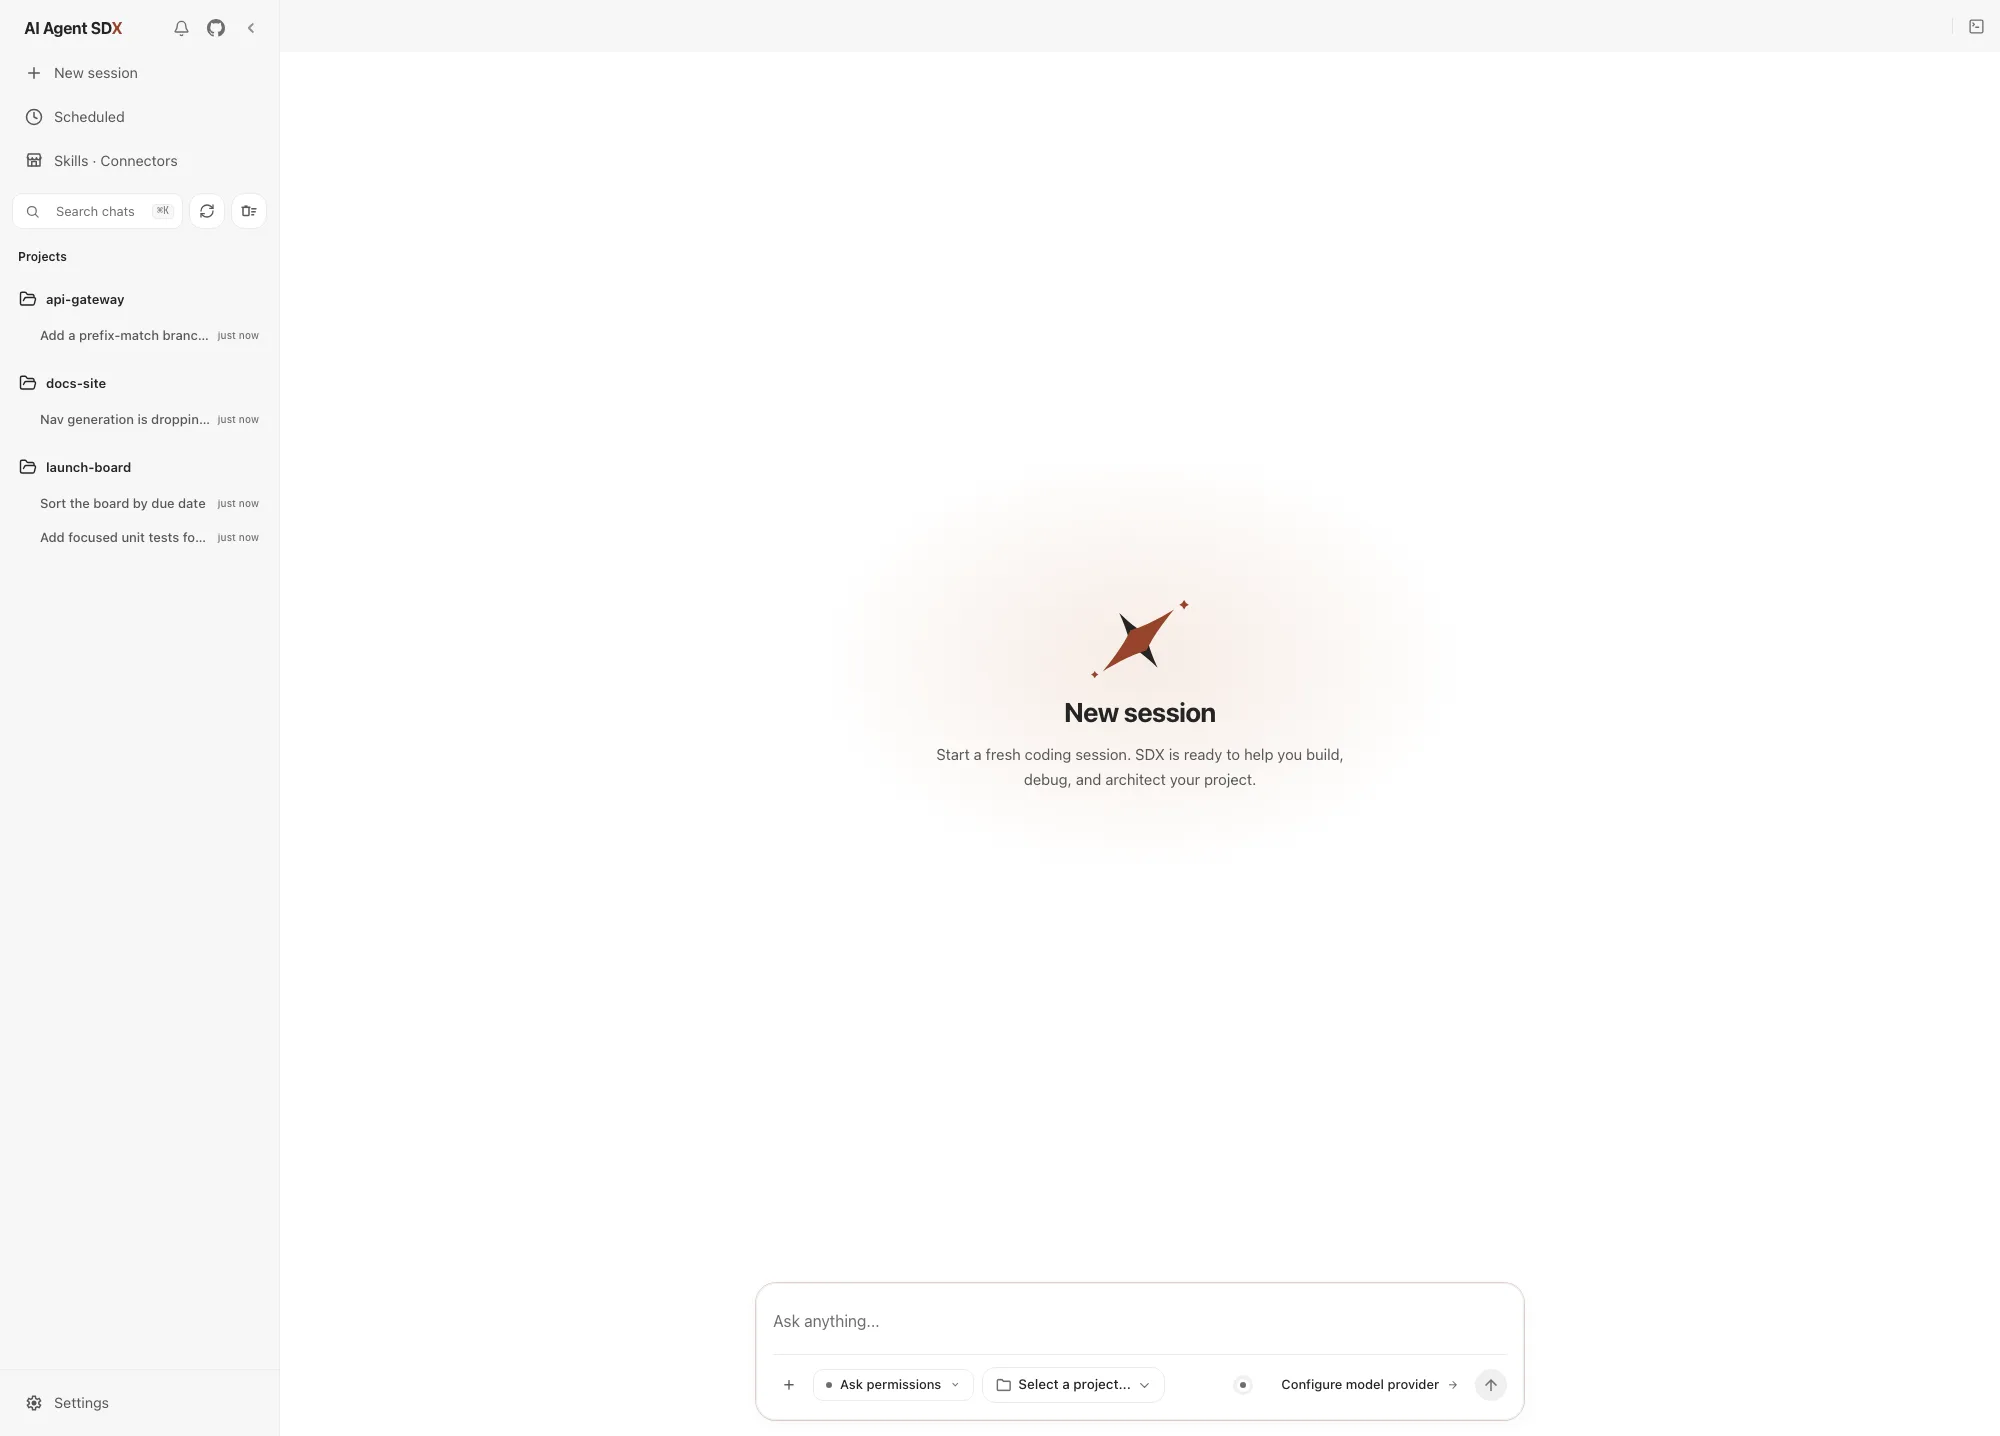
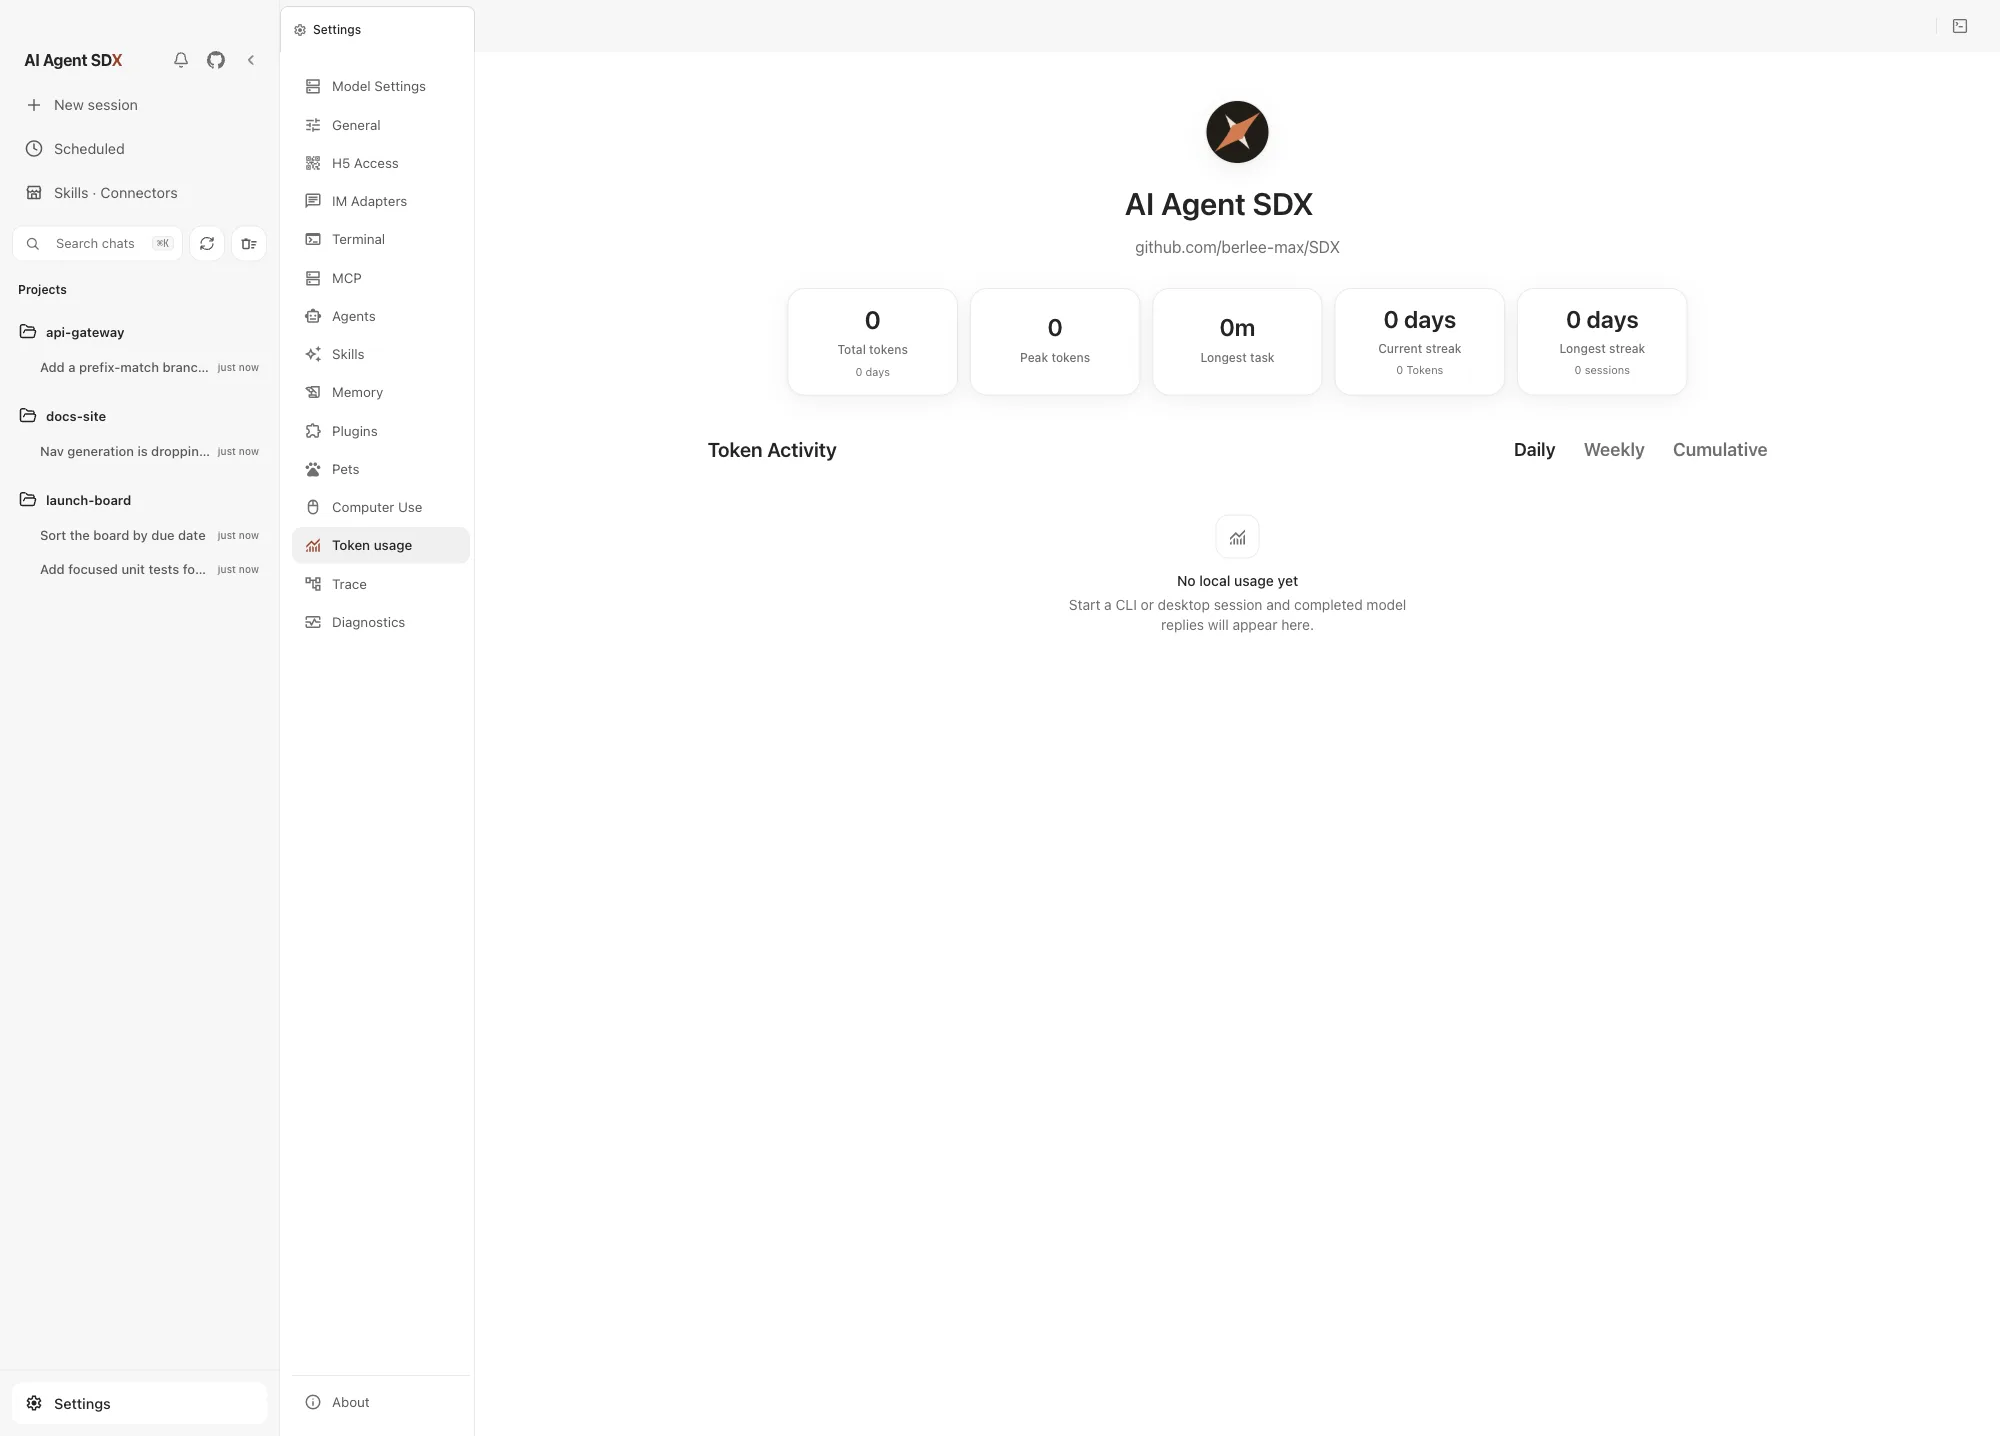
docs: capture from the packaged app, not the browser
The first version of this rig drove the renderer in headless Chrome against the
dev server. That works and is much easier, but it photographs the wrong
product: in a browser the app serves its remote variant, where Settings has two
tabs under a banner reading "Desktop administration and remote-access controls
remain on the desktop". The packaged app has fifteen. A settings screenshot
taken that way would have documented an app nobody installed — and would have
looked plausible, which is worse.

So the script now attaches to the packaged .app over its own
--remote-debugging-port. session-new is re-captured from there too, rather than
leaving one image from a shell with different window chrome than the rest.

settings-general is new and is what the page had always claimed: color theme,
language, output style, default session permissions, reasoning effort, thinking
mode. The browser variant showed less than half of that.

settings-usage is not included. It captures cleanly, but a scratch profile has
no token history, so the panel renders its empty state while the page around it
promises "a heatmap and stat cards". Seeding that needs real model runs.

Three things the script learned by failing:

Clicks are dispatched as real mouse events at a located point. `element.click()`
returned successfully and did nothing — the settings panel simply never opened,
and the capture was of the previous screen.

Elements are matched on contained text, not equality, because icons here are
[…]

diff --git a/docs/en/desktop/settings.md b/docs/en/desktop/settings.md
@@ -19,6 +19,8 @@ You'll come here once during setup and rarely again. Full steps in [Connecting a
 
 The tab you'll open most often — everything about how the app feels.
 
+![Settings → General: color theme, language, output style, default session permissions and reasoning effort](../../images/app/en/settings-general.webp)
+
 
 - **Color theme** — six of them: Pure White (default), Paper, Warm Classic, Celadon, Ink Night, Ink Blue. There's also **Follow the system**, which lets you pick which theme to use in light mode and which in dark mode.
 - **Language** — the interface language.

diff --git a/docs/desktop/settings.md b/docs/desktop/settings.md
@@ -19,6 +19,8 @@ order: 6
 
 最常动的一栏，配的都是「用起来顺不顺手」的东西。
 
+![设置 → 通用：配色主题、语言、输出风格、默认会话权限与推理强度](../images/app/zh-CN/settings-general.webp)
+
 
 - **配色主题** — 六套：纯白（默认）、纸墨、经典暖色、青瓷、墨夜、墨夜蓝。另有「跟随系统」开关，打开后可以分别指定浅色模式和深色模式各用哪一套。
 - **语言** — 界面显示语言。
